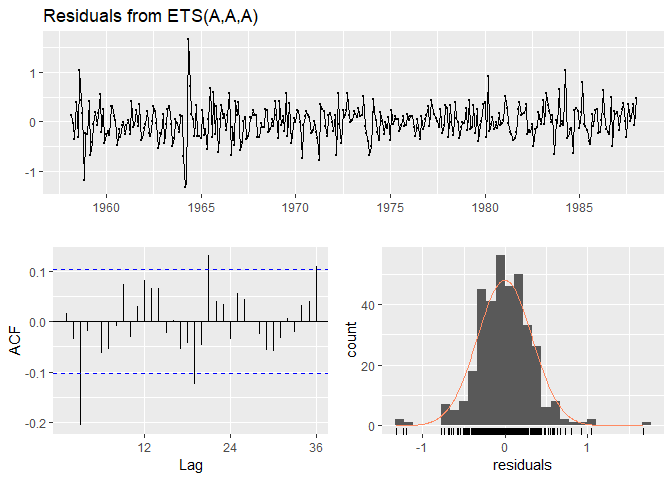
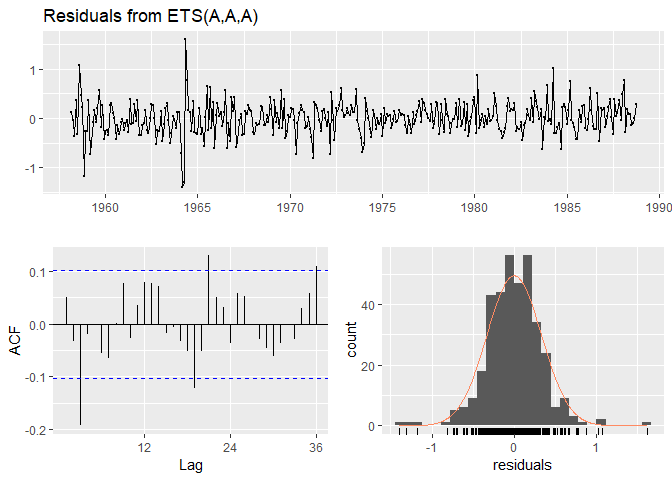
Mise à jour du devoir 5

diff --git a/devoir5_zc.md b/devoir5_zc.md
@@ -3,49 +3,33 @@ Introduction à la plateforme GitHub
 zcoulibali
 2019-04-05
 
-Petites astuces pour la pratique
---------------------------------
+Directives de l’évaluation
+--------------------------
 
-Le YAML en haut dans le code Marckdown, est l'information qui permettra d'exporter le document.
+Les données du fichier `hawai.csv` comprennent les moyennes des mesures mensuelles de **CO2 atmosphérique** en ppm-volume collectées au Mauna-Loa Observatory à Hawaii de mars 1958 à juillet 2001, inclusivement.
 
-Mettre du texte en *italique*.
+Travail à faire
+---------------
 
-Ce texte est en **gras**.
+Le travail consiste à :
 
-Comment formater les titres selon le nombre de carrés.
+1.  créer une série temporelle du CO2 à partir des données de hawai.csv
 
-Texte en `largeur fixe`.
+2.  séparer la série en parties d'entraînement (environ 70% des données) et en partie test
 
-Insérrer rapidement un bloc de code `ctrl+alt+i`.
+3.  créer un modèle ETS sur les données d'entraînement, puis projeter la prévision de CO2 atmosphérique pour comparer aux données test
 
-Insérrer une équation comme paragraphe : l'encadrer par 2$ avant et 2$ après. Mais à l'intérieur du paragraphe, seulement par un $ de part et d'autre. Les équations utilise le `Latin`.
+4.  effectuer une analyse des résidus
 
-$$ \\alpha = \\frac{a}{b^2} $$
+5.  commenter : le modèle est-il fiable ? Comment pourrait-il être amélioré ?
 
-Juste pour tenter par moi-même une équation dans le paragraphe, écrivons *c*<sup>2</sup> = *a*<sup>2</sup> + *b*<sup>3</sup>. Géniale !. La racine carrée s'écrit $\\sqrt{a^2 + b^3}$.
+Enfin, le travail est remis sous forme de lien vers un répertoire git (GitHub, GitLab, etc.) comprenant un code reproductible de votre démarche en format R-markdown.
 
-Des codes utiles : - `{r, filtre-outliers}` donne le nom `filtre-outliers` au bloc de code, qui permet nommément de nommer les images créer dans le bloc de code.
-
--   `{r, eval = FALSE, include = FALSE}` permet d’activer (`TRUE`, valeur par défaut) ou de désactiver (`FALSE`) le calcul de la cellule, puis inclure ou ne pas inclure ...
-
--   `{r, echo = FALSE}` permet de n’afficher que la sortie de la cellule de code en n’affichant pas le code, par exemple un graphique ou le sommaire d’une régression.
-
--   `{r, results = FALSE}` permet de n’afficher que le code, mais pas la sortie.
-
--   `{r, warning = FALSE, message = FALSE, error = FALSE}` n’affichera pas les avertissements, les messages automatiques et les messages d’erreur.
-
--   `{r, fig.width = 10, fig.height = 5, fig.align = "center"}` affichera les graphiques dans les dimensions voulues, alignée au centre (`"center"`), à gauche (`"left"`) ou à droite (`"right"`).
-
-Mais se référer de préférence à l'[aide-mémoire](https://github.com/adam-p/markdown-here/wiki/Markdown-Cheatsheet) Marckdown pour plus de détails ou le langage Marckdown [ici](https://daringfireball.net/projects/markdown/basics).
-
-On peut également exécuter rapidement du code sur une ligne avec la formulation `r`, par exemple la moyenne des nombres `\r a<-round(runif(4, 0, 10)); a` est de `\r mean(a)`, en enlevant les `\` devant les r (ajoutées artificiellement pour éviter que le code soit calculé) qui affichera en sortie :
-
-La moyenne des nombres 10, 8, 10, 8 est de 9.
+Résolution
+----------
 
 Charger le fichier de travail
 -----------------------------
-
-Après toutes ces digressions personnelle pour implémenter certains aspects fascinants de cet interface, je reviens aux moutons à l'ordre du jour. Chargeons les données à étudier.
 
 ``` r
 library(tidyverse)
@@ -71,31 +55,6 @@ hawai <- read_csv("hawai.csv")
     ##   time = col_double(),
     ##   CO2 = col_double()
     ## )
-
-Directives de l’évaluation
---------------------------
-
-Les données du fichier `hawai.csv` comprennent les moyennes des mesures mensuelles de **CO2 atmosphérique** en ppm-volume collectées au Mauna-Loa Observatory à Hawaii de mars 1958 à juillet 2001, inclusivement.
-
-Travail à faire
----------------
-
-Le travail consiste à :
-
-1.  créer une série temporelle du CO2 à partir des données de hawai.csv
-
-2.  séparer la série en parties d'entraînement (environ 70% des données) et en partie test
-
-3.  créer un modèle ETS sur les données d'entraînement, puis projeter la prévision de CO2 atmosphérique pour comparer aux données test
-
-4.  effectuer une analyse des résidus
-
-5.  commenter : le modèle est-il fiable ? Comment pourrait-il être amélioré ?
-
-Enfin, le travail est remis sous forme de lien vers un répertoire git (GitHub, GitLab, etc.) comprenant un code reproductible de votre démarche en format R-markdown.
-
-Résolution
-----------
 
 ### 1. Créer une série temporelle du CO2 à partir des données de hawai.csv
 
@@ -133,8 +92,8 @@ hawai_ts <- ts(hawai$CO2,         # le vecteur (cible)
 sample(hawai_ts, 10)
 ```
 
-    ##  [1] 330.000 322.100 336.600 354.140 324.825 340.020 357.575 331.800
-    ##  [9] 320.450 321.320
+    ##  [1] 322.060 373.800 355.925 356.080 329.220 320.450 330.625 347.925
+    ##  [9] 333.425 337.525
 
 ### 2. Séparer la série en parties d'entraînement (environ 70% des données) et en partie test
 
@@ -243,10 +202,10 @@ hawai$time[round(0.7*nrow(hawai))]
 
     ## [1] 1988.75
 
-Ce qui correspond au mois de septembre 1988. Nous pouvons partitionner en utilisant cette date comme ci-dessous :
+Ce qui correspond au mois de septembre 1988. Nous pouvons donc partitionner en utilisant cette date comme limite de partitionnement :
 
 ``` r
-hawai_ts_train1 <- window(hawai_ts, 
+hawai_ts_train <- window(hawai_ts, 
                          start = 1958, 
                          end = hawai$time[round(0.7*nrow(hawai))],
                          freq = 12)
@@ -255,25 +214,8 @@ hawai_ts_train1 <- window(hawai_ts,
     ## Warning in window.default(x, ...): 'start' value not changed
 
 ``` r
-hawai_ts_test1 <- window(hawai_ts, 
-                        start = hawai$time[round(0.7*nrow(hawai))],
-                        freq = 12)
-```
-
-Ou bien partitionner jusqu'en décembre 1988 (3 mois de plus), juste pour que les données Test restent sur 12\*13 (13 périodes de 12 mois). Y'aurait-il autre moyen de pouvoir appeler les 3 mois restant dans le `forecast(h= ...)` ? J'ai opté de les ajouter aux données d'entraînement.
-
-``` r
-hawai_ts_train <- window(hawai_ts, 
-                         start = 1958, 
-                         end = 1988,
-                         freq = 12)
-```
-
-    ## Warning in window.default(x, ...): 'start' value not changed
-
-``` r
 hawai_ts_test <- window(hawai_ts, 
-                        start = 1989,
+                        start = hawai$time[round(0.7*nrow(hawai))],
                         freq = 12)
 ```
 
@@ -284,6 +226,7 @@ hawai_ts_test
 ```
 
     ##          Jan     Feb     Mar     Apr     May     Jun     Jul     Aug
+    ## 1988                                                                
     ## 1989 352.775 353.000 353.600 355.360 355.600 355.125 353.860 351.575
     ## 1990 353.650 354.650 355.480 356.175 357.075 356.080 354.675 352.900
     ## 1991 354.675 355.650 357.200 358.600 359.250 358.180 356.050 353.860
@@ -298,6 +241,7 @@ hawai_ts_test
     ## 2000 369.020 369.375 370.400 371.540 371.650 371.625 369.940 367.950
     ## 2001 370.175 371.325 372.060 372.775 373.800 373.060 371.300 369.425
     ##          Sep     Oct     Nov     Dec
+    ## 1988         348.960 350.000 351.360
     ## 1989 349.860 350.050 351.200 352.480
     ## 1990 350.940 351.225 352.700 354.140
     ## 1991 352.125 352.250 353.740 355.025
@@ -311,6 +255,8 @@ hawai_ts_test
     ## 1999 364.675 365.140 366.650 367.900
     ## 2000 366.540 366.725 368.125 369.440
     ## 2001 367.880 368.050 369.375 371.020
+
+Il reste ainsi 13 années fois 12 mois plus 3 mois soit h = 159 pour les données Test.
 
 ### 3.1 Créer un modèle ETS sur les données d'entraînement
 
@@ -326,12 +272,12 @@ Pour afficher la prédiction :
 
 ``` r
 hawai_ets %>% 
-  autoplot()
+  autoplot() + labs(x = "Année", y = "Concentration CO2")
 ```
 
-![](devoir5_zc_files/figure-markdown_github/unnamed-chunk-11-1.png)
+![](devoir5_zc_files/figure-markdown_github/unnamed-chunk-10-1.png)
 
-Une prédiction est faite possiblement de 1988 à 1990. Les données Test permettront d'etendre un peu plus cette plage de prédiction.
+Une prédiction est faite possiblement de 1988 à 1990. Les données Test permettront d'étendre un peu plus cette plage de prédiction.
 
 On pourrait regarder les paramètres du modèle :
 
@@ -340,32 +286,45 @@ hawai_ets$model$par
 ```
 
     ##         alpha          beta         gamma             l             b 
-    ##  7.161484e-01  1.086551e-03  1.400553e-04  3.145679e+02  1.075629e-01 
+    ##  6.802687e-01  2.259570e-03  1.015036e-04  3.145366e+02  1.126940e-01 
     ##            s0            s1            s2            s3            s4 
-    ##  5.791636e-01 -3.720418e-02 -9.174696e-01 -1.973954e+00 -3.033426e+00 
+    ##  5.563618e-01 -8.727554e-02 -9.497972e-01 -2.004136e+00 -3.056502e+00 
     ##            s5            s6            s7            s8            s9 
-    ## -2.868235e+00 -1.178724e+00  7.324790e-01  2.222816e+00  2.825109e+00 
+    ## -2.878968e+00 -1.183077e+00  7.839500e-01  2.259468e+00  2.856629e+00 
     ##           s10 
-    ##  2.351379e+00
+    ##  2.384125e+00
 
 ### 3.2 Projeter la prévision de CO2 atmosphérique pour comparer aux données test
 
-Faisons la projection sur 13 périodes de 12 mois (`12*13`) correspondant à la plage des données Test.
+Faisons la projection sur une période de 159 mois correspondant à la plage des données Test.
 
 ``` r
 hawai_ets <- hawai_ts_train %>%
                   ets() %>% 
-                  forecast(h = 12*13)
+                  forecast(h = 159)
 ```
 
 La visualisation graphique donne cette fois :
 
 ``` r
 hawai_ets %>% 
-  autoplot()
+  autoplot() + labs(x = "Année", y = "Concentration CO2")
 ```
 
-![](devoir5_zc_files/figure-markdown_github/unnamed-chunk-14-1.png)
+![](devoir5_zc_files/figure-markdown_github/unnamed-chunk-13-1.png)
+
+L’évaluation du modèle peut être effectuée avec la fonction `forecast::accuracy()` qui détecte automatiquement la série d’entraînement et la série de test si on lui fournit la série entière `hawi_ts`.
+
+``` r
+accuracy(hawai_ets, hawai_ts)
+```
+
+    ##                        ME     RMSE       MAE          MPE       MAPE
+    ## Training set -0.001062961 0.330219 0.2482782 -0.000786347 0.07547246
+    ## Test set      0.370393661 1.149941 0.8916896  0.098447563 0.24472812
+    ##                   MASE       ACF1 Theil's U
+    ## Training set 0.2032564 0.05170149        NA
+    ## Test set     0.7299939 0.94392537 0.8938207
 
 ### 4. Effectuer une analyse des résidus
 
@@ -380,17 +339,38 @@ hawai_ets %>%
     ##  Ljung-Box test
     ## 
     ## data:  Residuals from ETS(A,A,A)
-    ## Q* = 44.698, df = 8, p-value = 4.198e-07
+    ## Q* = 45.022, df = 8, p-value = 3.645e-07
     ## 
     ## Model df: 16.   Total lags used: 24
 
+### 5. Commenter : le modèle est-il fiable ? Comment pourrait-il être amélioré ?
+
 La p-value du `Ljung-Box test` (&lt;&lt;&lt; 0.05) montre qu'il y a des tendances dans les données. Il est peu probable que les résidus aient été générés par un bruit blanc, indiquant qu’il existe une structure dans les données qui n’a pas été capturée par le modèle.
 
-### 5. Commenter : le modèle est-il fiable ? Comment pourrait-il être amélioré ?
+On pourrait tester le modèle ARIMA et apprecier l'amélioration éventuelle apportée.
 
 ``` r
 hawai_arima <- hawai_ts_train %>% auto.arima()
-hawai_arima %>% forecast(h=12*13) %>% autoplot()
+
+hawai_arima %>% forecast(h=159) %>% 
+                      autoplot() + labs(x = "Année", y = "Concentration CO2")
 ```
 
 ![](devoir5_zc_files/figure-markdown_github/unnamed-chunk-16-1.png)
+
+``` r
+hawai_arima %>%
+  checkresiduals()
+```
+
+![](devoir5_zc_files/figure-markdown_github/unnamed-chunk-17-1.png)
+
+    ## 
+    ##  Ljung-Box test
+    ## 
+    ## data:  Residuals from ARIMA(1,1,1)(2,1,2)[12]
+    ## Q* = 20.545, df = 18, p-value = 0.303
+    ## 
+    ## Model df: 6.   Total lags used: 24
+
+Avec une p-value de 30.3%, le Ljung-Box test montre également que ce modéle serait meilleur que le modèle ETS.
